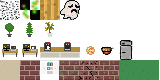
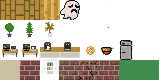
Changed roof and added trees and pines

Changed region(s): [[0.0, 0.0, 0.25, 0.25], [0.6562, 0.325, 0.6875, 0.35]]

diff --git a/pa-2d-game/src/scenes/sceen_data/gardenData.ts b/pa-2d-game/src/scenes/sceen_data/gardenData.ts
@@ -8,14 +8,14 @@ const roomData = [
 # · · · · · · · · · · · · · · · · · · · · · · · · · · · · · · #
 # · · · · · · · · · · · · · · · · * * * * * * * · · · · · · · #
 # · · · · · · · · · · · · · · · · * · · · · · * · · · · · · · #
-# · · · · · · · · · · · · · · · # * # · · · · * · · · · · · · #
-# · · · · · · · · · · · · · · · # # # · · · · * · · · · · · · #
-# · · · · · · · · · · · · # # # # # # # # · · * · · · · · · · #
-# · · · · · · · · · · · · # # # # # # # # · · * · · · · · · · #
-# · · · · · · · · · · · · # # # # # # # # · · * * * * * * * * *
-# · · · · · · · · · · · · # # # # # # # # · · * · · · · · · · #
-# · · · · · · · · · · · · · · · # * # · · · · * · · · · · · · #
-# · · · · · · · · · · · · · · · # * # · · · · * · · · · · · · #
+# · · · · · · · · · · · · · · · 1 * 1 · · · · * · · · · · · · #
+# · · · · · · · · · · · · · · · 1 1 1 · · · · * · · · · · · · #
+# · · · · · · · · · · · · 1 1 1 1 1 1 1 1 · · * · · · · · · · #
+# · · · · · · · · · · · · 1 1 1 1 1 1 1 1 · · * · · · · · · · #
+# · · · · · · · · · · · · 0 0 0 0 0 0 0 0 · · * * * * * * * * *
+# · · · · · · · · · · · · 0 0 0 0 0 0 0 0 · · * · · · · · · · #
+# · · · · · · · · · · · · · · · 0 * 0 · · · · * · · · · · · · #
+# · · · · · · · · · · · · · · · 0 * 0 · · · · * · · · · · · · #
 # · · · · · · · · · · · · · · · · * · · · · · * · · · · · · · #
 # · · · · · · · · · · · · · · · · * · · · · · * · · · · · · · #
 # · · · · · · · · · · · · · · · · * * * * * * * · · · · · · · #
@@ -35,14 +35,14 @@ const roomData = [
 # · · · · · · · · · · · · · · · · · · · · · · · · · · · · · · #
 # · · · · · · · · · * * * * * * * * * * * * * * · · · · · · · #
 # · · · · · · · · · * · · · · · · * · · · · · * · · · · · · · #
-# · · · · · · · * * * · · · · · # * # · · · · * · · · · · · · #
-# · · · · · · · * · · · · · · · # # # · · · · * · · · · · · · #
-# · · · · · · · * · · · · # # # # # # # # · · * · · · · · · · #
-# · · · · · · · * · · · · # # # # # # # # · · * · · · · · · · #
-# · · · · · · · * * · · · # # # # # # # # · · * * * * * * * * *
-# · · · · · · · · * · · · # # # # # # # # · · · · · · · · · · #
-# · · · · · · · · * · · · · · · # * # · · · · · · · · · · · · #
-# · · · · · · · · * · · · · · · # * # · · · · · · · · · · · · #
+# · · · · · · · * * * · · · · · 1 * 1 · · · · * · · · · · · · #
+# · · · · · · · * · · · · · · · 1 1 1 · · · · * · · · · · · · #
+# · · · · · · · * · · · · 1 1 1 1 1 1 1 1 · · * · · · · · · · #
+# · · · · · · · * · · · · 1 1 1 1 1 1 1 1 · · * · · · · · · · #
+# · · · · · · · * * · · · 0 0 0 0 0 0 0 0 · · * * * * * * * * *
+# · · · · · · · · * · · · 0 0 0 0 0 0 0 0 · · · · · · · · · · #
+# · · · · · · · · * · · · · · · 0 * 0 · · · · · · · · · · · · #
+# · · · · · · · · * · · · · · · 0 * 0 · · · · · · · · · · · · #
 # · · · · · · · · * · · · · · · · * · · · · · · · · · · · · · #
 # · · · · · · · · * · · · · · · · * · · · · · · · · · · · · · #
 # · · · · · · · · * * * * * * * * * · · · · · · · · · · · · · #
@@ -62,14 +62,14 @@ const roomData = [
 # · · · · · · · · · · · · · · · · * · * · * · · · · · · * · · #
 # · · · · · · · · · · · · · · · · * · * * * · · · · · · * · · #
 # · · · · · · · · · · · · · · · · * · · · · · · · * * * * · · #
-# · · · · · · · · · · · · · · · # * # · · · · · · * · · · · · #
-# · · · · · · · · · · · · · · · # # # · · · · · · * · · · · · #
-# · · · · · · · · · · · · # # # # # # # # · * * * * · · · · · #
-# · · · · · · · · · · · · # # # # # # # # · * · · · · · · · · #
-# · · · · · · · · · · · · # # # # # # # # · * * * * * * * * * *
-# · · · · · · · · · · · · # # # # # # # # · * · · · · · · · · #
-# · · · · · · · · · · · · · · · # * # · · · * · · · · · · · · #
-# · · · · · · · · · · · · · · · # * # · · · * * * · · · · · · #
+# · · · · · · · · · · · · · · · 1 * 1 · · · · · · * · · · · · #
+# · · · · · · · · · · · · · · · 1 1 1 · · · · · · * · · · · · #
+# · · · · · · · · · · · · 1 1 1 1 1 1 1 1 · * * * * · · · · · #
+# · · · · · · · · · · · · 1 1 1 1 1 1 1 1 · * · · · · · · · · #
+# · · · · · · · · · · · · 0 0 0 0 0 0 0 0 · * * * * * * * * * *
+# · · · · · · · · · · · · 0 0 0 0 0 0 0 0 · * · · · · · · · · #
+# · · · · · · · · · · · · · · · 0 0 0 · · · * · · · · · · · · #
+# · · · · · · · · · · · · · · · 0 * 0 · · · * * * · · · · · · #
 # · · · · · · · · · · · · · · · · * · · · · · · * · · · · · · #
 # · · · · · · · · · · · · · · · · * · · · · · · * · · · · · · #
 # · · · · · · · · · · · · · · · · * * * · · * * * · · · · · · #
@@ -89,14 +89,14 @@ const roomData = [
 # · · · · · · · · · · · · · * · · · · · · · · * · · · · · · · #
 # · · * * * * * * * * * * * * · · * * * * * * * · · · · · · · #
 # · · * · · · · · · · · · · · · · * · · · · · * · · · · · · · #
-# · · * · · · · · · · · · · · · # * # · · · · * · · · · · · · #
-# · · * · · · · · · · · · · · · # # # · · · · * · · · · · · · #
-# · · * * * * * * * * · · # # # # # # # # · · * · · · · · · · #
-# · · · · · · · · · * · · # # # # # # # # · · * · · · · · · · #
-# · · · · · · · · · * · · # # # # # # # # · · * * * * * * * * *
-# · · · · · · · · · * · · # # # # # # # # · · * · · · · · · · #
-# · · · · · · · · · * · · · · · # * # · · · · * · · · · · · · #
-# · · · · · · · · · * · · · · · # * # · · · · * · · · · · · · #
+# · · * · · · · · · · · · · · · 1 * 1 · · · · * · · · · · · · #
+# · · * · · · · · · · · · · · · 1 1 1 · · · · * · · · · · · · #
+# · · * * * * * * * * · · 1 1 1 1 1 1 1 1 · · * · · · · · · · #
+# · · · · · · · · · * · · 1 1 1 1 1 1 1 1 · · * · · · · · · · #
+# · · · · · · · · · * · · 0 0 0 0 0 0 0 0 · · * * * * * * * * *
+# · · · · · · · · · * · · 0 0 0 0 0 0 0 0 · · * · · · · · · · #
+# · · · · · · · · · * · · · · · 0 * 0 · · · · * · · · · · · · #
+# · · · · · · · · · * · · · · · 0 * 0 · · · · * · · · · · · · #
 # · · · · · · · · · * · · · · · · * · · · · · * · · · · · · · #
 # · · · · · · · · · * · · · · · · * · · · · · * · · · · · · · #
 # · · · · · · · · · * * * * * * * * * * * * * * · · · · · · · #
@@ -116,14 +116,14 @@ const roomData = [
 # · · · · · · · · · · · · · · · · * · · · · · · · · · · · · * #
 # · · · · · · · · · · · · · · · · * · · · · · * * * * * * * * #
 # · · · · · · · · · · · · · · · · * · · · · · * · · · · · · · #
-# · · · · · · · · · · · · · · · # * # · · · · * · · · · · · · #
-# · · · · · · · · · · · · · · · # # # · · · · * · · · · · · · #
-# · · · · · · · · · · · · # # # # # # # # · · * · · · · · · · #
-# · · · · · · · · · · · · # # # # # # # # · · * · · · · · · · #
-# · · · · · · · · · · · · # # # # # # # # · · * * * * * * * * *
-# · · · · · · · · · · · · # # # # # # # # · · * · · · · · · · #
-# · · · · · · · · · · · · · · · # * # · · · · * · · · · · · · #
-# · · · · · · · · · · · · · · · # * # · · · · * · · · · · · · #
+# · · · · · · · · · · · · · · · 1 * 1 · · · · * · · · · · · · #
+# · · · · · · · · · · · · · · · 1 1 1 · · · · * · · · · · · · #
+# · · · · · · · · · · · · 1 1 1 1 1 1 1 1 · · * · · · · · · · #
+# · · · · · · · · · · · · 1 1 1 1 1 1 1 1 · · * · · · · · · · #
+# · · · · · · · · · · · · 0 0 0 0 0 0 0 0 · · * * * * * * * * *
+# · · · · · · · · · · · · 0 0 0 0 0 0 0 0 · · * · · · · · · · #
+# · · · · · · · · · · · · · · · 0 * 0 · · · · * · · · · · · · #
+# · · · · · · · · · · · · · · · 0 * 0 · · · · * · · · · · · · #
 # · · · · · · · · · · · · · · · · * · · · · · * · · · · · · · #
 # · · · · · · · · · · · · · · · · * · · · · · * · · · · · · · #
 # · · · · · · · · · · · · · · · · * * * * * * * · · · · · · · #

diff --git a/pa-2d-game/src/scenes/GardenScene.tsx b/pa-2d-game/src/scenes/GardenScene.tsx
@@ -11,7 +11,8 @@ import {
     insertNRandomMarks,
 } from '../@core/utils/mapUtils';
 import Player from '../entities/Player';
-import Plant from '../entities/Plant';
+import Pine from '../entities/Pine';
+import Tree from '../entities/Tree';
 import Mush00 from '../entities/Mushrooms/Mush00';
 import Mush01 from '../entities/Mushrooms/Mush01';
 import Mush02 from '../entities/Mushrooms/Mush02';
@@ -77,16 +78,17 @@ import getRoomData from './sceen_data/gardenData';
 // # # # # # # # # # # # # # # # # # # # # # # # # # # # # # # # #
 // `);
 const floorChar = '·';
-const rubbishChar = 'r';
+const pine = 'p';
 const chanceOrRubbish = 0.5;
 const mapData = insertRandomMarks(
     mapDataString(getRoomData()),
     floorChar,
     chanceOrRubbish,
-    rubbishChar
+    pine
 );
 insertNRandomMarks(mapData, '·', 3, 'm');
 insertNRandomMarks(mapData, '·', 3, 'n');
+insertNRandomMarks(mapData, '·', 33, 't');
 
 const resolveMapTile: TileMapResolver = (type, x, y) => {
     const key = `${x}-${y}`;
@@ -106,6 +108,20 @@ const resolveMapTile: TileMapResolver = (type, x, y) => {
                 <GameObject key={key} {...position} layer="wall">
                     <Collider />
                     <Sprite {...spriteData.objects} state="wall2" />
+                </GameObject>
+            );
+        case '0':
+            return (
+                <GameObject key={key} {...position} layer="wall">
+                    <Collider />
+                    <Sprite {...spriteData.objects} state="roof" />
+                </GameObject>
+            );
+        case '1':
+            return (
+                <GameObject key={key} {...position} layer="wall">
+                    <Collider />
+                    <Sprite {...spriteData.objects} state="roof2" />
                 </GameObject>
             );
         case '*':
@@ -128,11 +144,18 @@ const resolveMapTile: TileMapResolver = (type, x, y) => {
                     <Mush01 {...position} />
                 </Fragment>
             );
-        case 'r':
+        case 'p':
             return (
                 <Fragment key={key}>
                     {floor}
-                    <Plant {...position} />
+                    <Pine {...position} />
+                </Fragment>
+            );
+        case 't':
+            return (
+                <Fragment key={key}>
+                    {floor}
+                    <Tree {...position} />
                 </Fragment>
             );
         default:

diff --git a/pa-2d-game/src/spriteData.ts b/pa-2d-game/src/spriteData.ts
@@ -35,9 +35,9 @@ const spriteData: { [index: string]: SpriteProps } = {
         frameWidth: 20,
         frameHeight: 20,
         sheet: {
-            floor1: [[0, 3]],
+            roof: [[0, 3]],
             floor2: [[0, 0]],
-            floor3: [[1, 3]],
+            roof2: [[1, 3]],
             floor4: [[2, 3]],
             wall1: [[1, 0]],
             wall2: [[3, 0]],
@@ -52,6 +52,8 @@ const spriteData: { [index: string]: SpriteProps } = {
             redbutton: [[5, 1]],
             refrigerator: [[6, 1]],
             plant: [[0, 2]],
+            pine: [[1, 2]],
+            tree: [[2, 2]],
             ghost: [[3, 3]],
         },
     },

diff --git a/pa-2d-game/src/entities/Pine.tsx b/pa-2d-game/src/entities/Pine.tsx
@@ -1,0 +1,14 @@
+import React from 'react';
+import Collider from '../@core/Collider';
+import GameObject, { GameObjectProps } from '../@core/GameObject';
+import Sprite from '../@core/Sprite';
+import spriteData from '../spriteData';
+
+export default function Pine(props: GameObjectProps) {
+    return (
+        <GameObject layer="obstacle" {...props}>
+            <Collider />
+            <Sprite {...spriteData.objects} state="pine" offset={{ x: 0, y: 0.25 }} />
+        </GameObject>
+    );
+}

diff --git a/pa-2d-game/src/entities/Tree.tsx b/pa-2d-game/src/entities/Tree.tsx
@@ -1,0 +1,14 @@
+import React from 'react';
+import Collider from '../@core/Collider';
+import GameObject, { GameObjectProps } from '../@core/GameObject';
+import Sprite from '../@core/Sprite';
+import spriteData from '../spriteData';
+
+export default function Tree(props: GameObjectProps) {
+    return (
+        <GameObject layer="obstacle" {...props}>
+            <Collider />
+            <Sprite {...spriteData.objects} state="tree" offset={{ x: 0, y: 0.25 }} />
+        </GameObject>
+    );
+}
